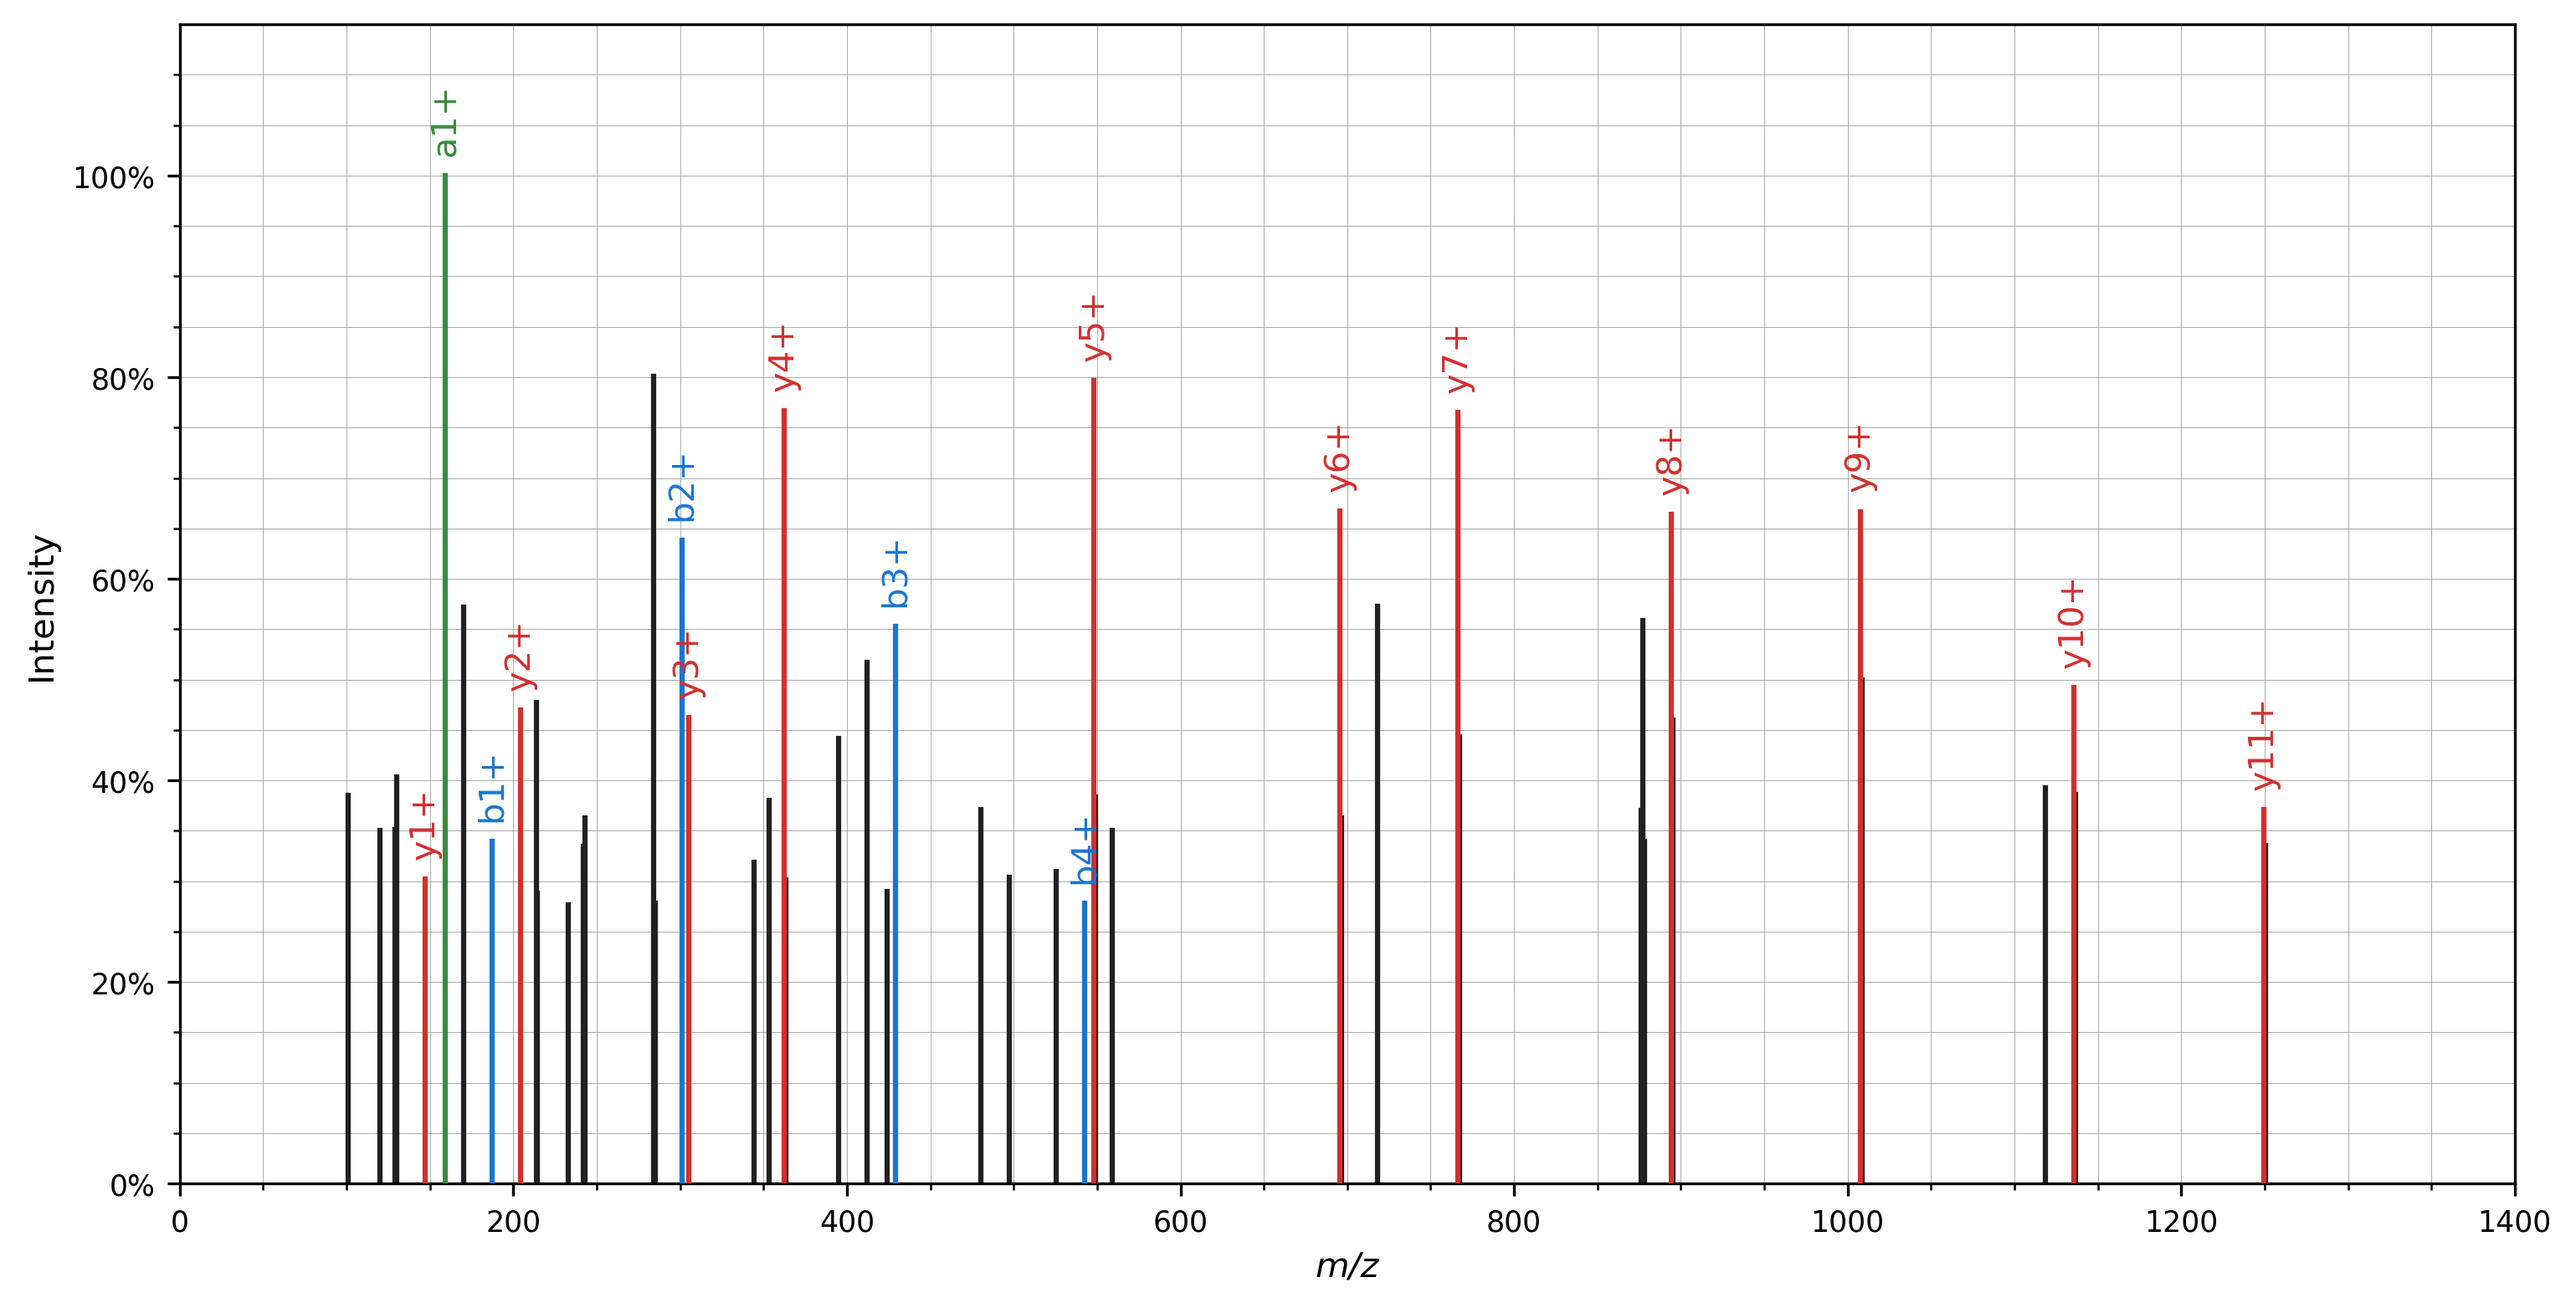
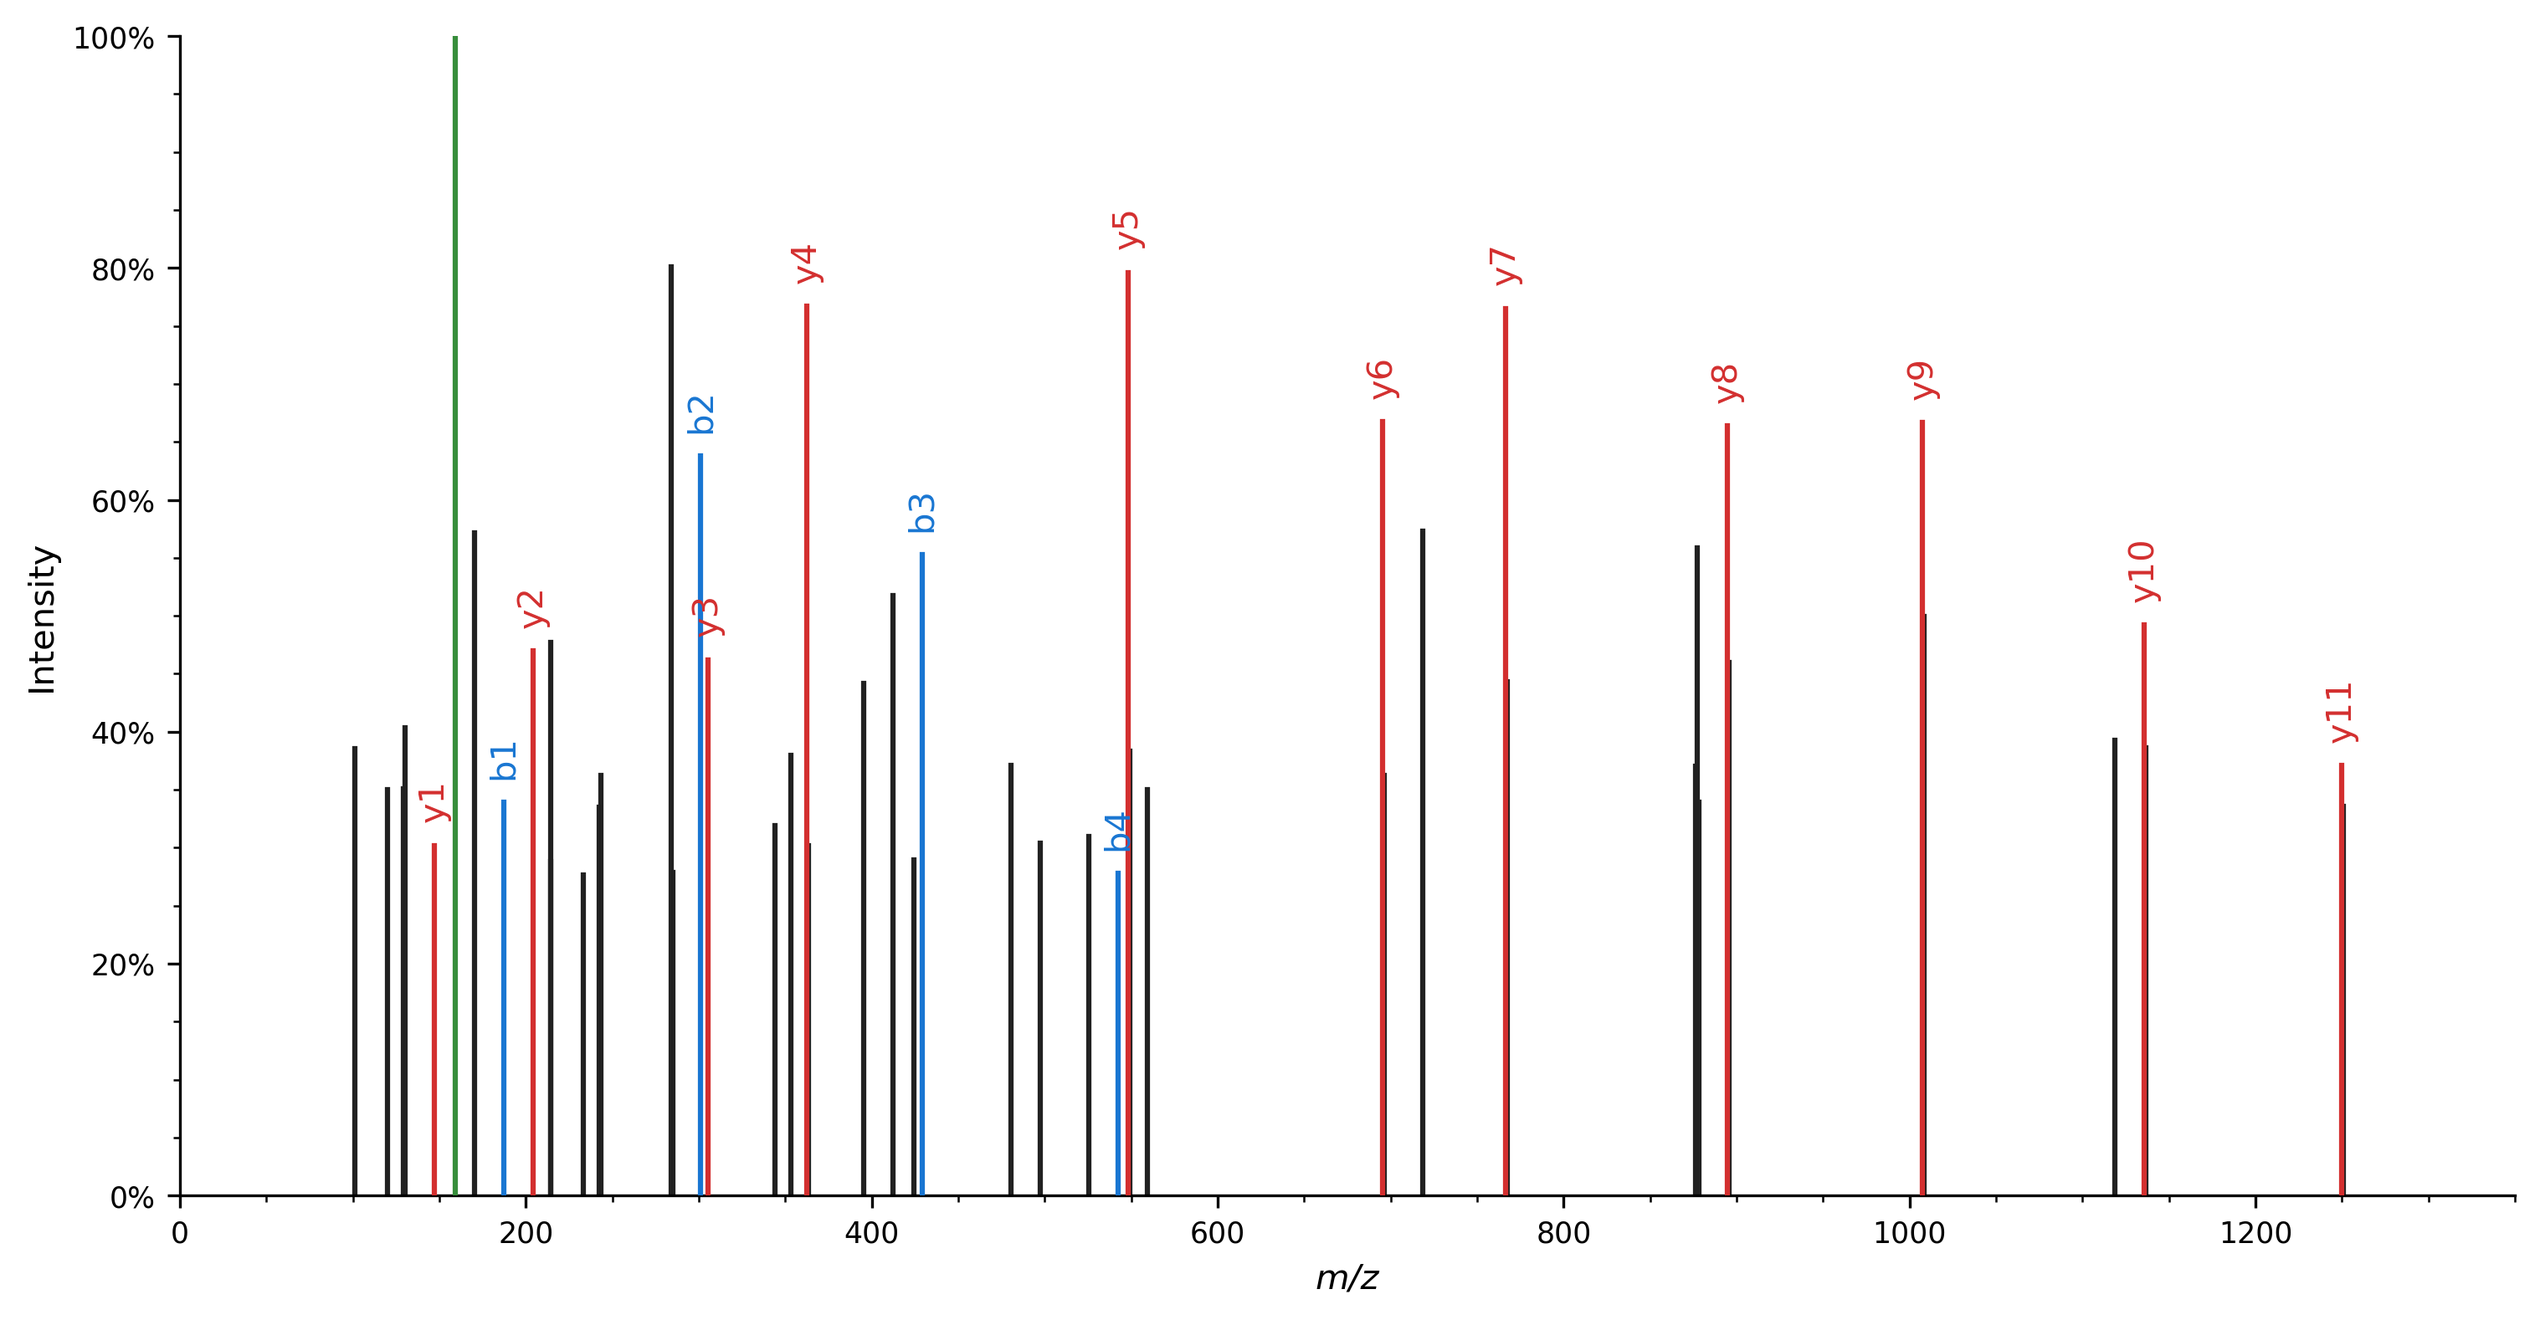
Update quickstart example

diff --git a/docs/src/quickstart.md b/docs/src/quickstart.md
@@ -1,70 +1,57 @@
 # Quickstart
 
-Here we briefly introduce spectrum_utils' MS/MS spectrum processing and
-visualization functionality:
+Here we briefly introduce spectrum_utils' spectrum processing and visualization functionality:
 
+- Load a spectrum from an online data resource by its [Universal Spectrum Identifier (USI)](https://www.psidev.info/usi).
 - Restrict the mass range to 100–1400 _m_/_z_ to filter out irrelevant peaks.
 - Remove the precursor peak.
-- Remove low-intensity noise peaks by only retaining peaks that are at at least
-5% of the base peak intensity and restrict the total number of peaks to the 50
-most intense peaks.
-- Scale the peak intensities by their square root to de-emphasize overly
-intense peaks.
-- Annotate peaks corresponding to 'b', 'y', and 'a' peptide fragments.
+- Remove low-intensity noise peaks by only retaining peaks that are at at least 5% of the base peak intensity and restrict the total number of peaks to the 50 most intense peaks.
+- Scale the peak intensities by their square root to de-emphasize overly intense peaks.
+- Annotate peaks corresponding to a, b, and y peptide fragments in the spectrum based on a [ProForma 2.0](https://www.psidev.info/proforma) peptide string.
+- Visualize the spectrum with the annotated peaks highlighted.
 
-IO functionality is not included in spectrum_utils. Instead you can use
-excellent libraries to read a variety of mass spectrometry data formats such as
-[Pyteomics](https://pyteomics.readthedocs.io/) or
-[pymzML](https://pymzml.readthedocs.io/), or from retrieve spectra from
-external resources, for example, using their
-[Universal Spectrum Identifier](https://www.psidev.info/usi).
+IO functionality to read spectra from MS data files is not directly included in spectrum_utils.
+Instead you can use excellent libraries to read a variety of mass spectrometry data formats such as [Pyteomics](https://pyteomics.readthedocs.io/) or [pymzML](https://pymzml.readthedocs.io/).
 
 ```python
 import matplotlib.pyplot as plt
-import pandas as pd
 import spectrum_utils.plot as sup
 import spectrum_utils.spectrum as sus
-import urllib.parse
 
 
-# Get the spectrum peaks using its USI.
-usi = 'mzspec:PXD004732:01650b_BC2-TUM_first_pool_53_01_01-3xHCD-1h-R2:scan:41840'
-peaks = pd.read_csv(
-    f'https://metabolomics-usi.ucsd.edu/csv/?usi={urllib.parse.quote(usi)}')
-# Create the MS/MS spectrum.
-precursor_mz = 718.3600
-precursor_charge = 2
-spectrum = sus.MsmsSpectrum(usi, precursor_mz, precursor_charge,
-                            peaks['mz'].values, peaks['intensity'].values,
-                            peptide='WNQLQAFWGTGK')
+# Retrieve the spectrum by its USI.
+usi = "mzspec:PXD004732:01650b_BC2-TUM_first_pool_53_01_01-3xHCD-1h-R2:scan:41840"
+peptide = "WNQLQAFWGTGK"
+spectrum = sus.MsmsSpectrum.from_usi(usi)
 
-# Process the MS/MS spectrum.
-fragment_tol_mass = 10
-fragment_tol_mode = 'ppm'
-spectrum = (spectrum.set_mz_range(min_mz=100, max_mz=1400)
-            .remove_precursor_peak(fragment_tol_mass, fragment_tol_mode)
-            .filter_intensity(min_intensity=0.05, max_num_peaks=50)
-            .scale_intensity('root')
-            .annotate_peptide_fragments(fragment_tol_mass, fragment_tol_mode,
-                                        ion_types='aby'))
+# Process the spectrum.
+fragment_tol_mass, fragment_tol_mode = 10, "ppm"
+spectrum = (
+    spectrum.set_mz_range(min_mz=100, max_mz=1400)
+    .remove_precursor_peak(fragment_tol_mass, fragment_tol_mode)
+    .filter_intensity(min_intensity=0.05, max_num_peaks=50)
+    .scale_intensity("root")
+    .annotate_proforma(
+        peptide, fragment_tol_mass, fragment_tol_mode, ion_types="aby"
+    )
+)
 
-# Plot the MS/MS spectrum.
+
+# Plot the spectrum.
 fig, ax = plt.subplots(figsize=(12, 6))
-sup.spectrum(spectrum, ax=ax)
-plt.show()
+sup.spectrum(spectrum, grid=False, ax=ax)
+ax.spines["right"].set_visible(False)
+ax.spines["top"].set_visible(False)
+plt.savefig("quickstart.png", bbox_inches="tight", dpi=300, transparent=True)
 plt.close()
 ```
 
-As demonstrated, each of the processing steps can be achieved using a single,
-high-level function call. These calls can be chained together to easily
-perform multiple processing steps.
+As demonstrated, each of the processing steps can be achieved using a single, high-level function call.
+These calls can be chained together to easily perform multiple processing steps.
 
-Spectrum plotting can similarly be achieved using a high-level function call,
-resulting in the following figure:
+Spectrum plotting can similarly be achieved using a high-level function call, resulting in the following figure:
 
 ![](quickstart.png)
 
-Note that several processing steps modify the peak _m_/_z_ and intensity values
-and are thus not idempotent. It is recommended to make a copy of the
-`MsmsSpectrum` object prior to any processing if the raw peak values need to
-remain available as well.
+Note that several processing steps modify the peak _m_/_z_ and intensity values and are thus not idempotent.
+It is recommended to make a copy of the `MsmsSpectrum` object prior to any processing if the raw peak values need to remain available as well.
